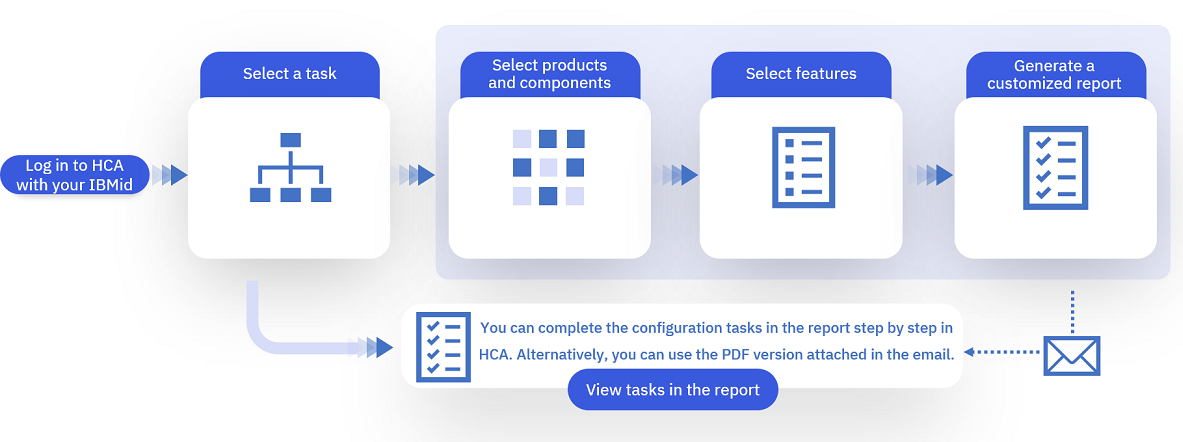
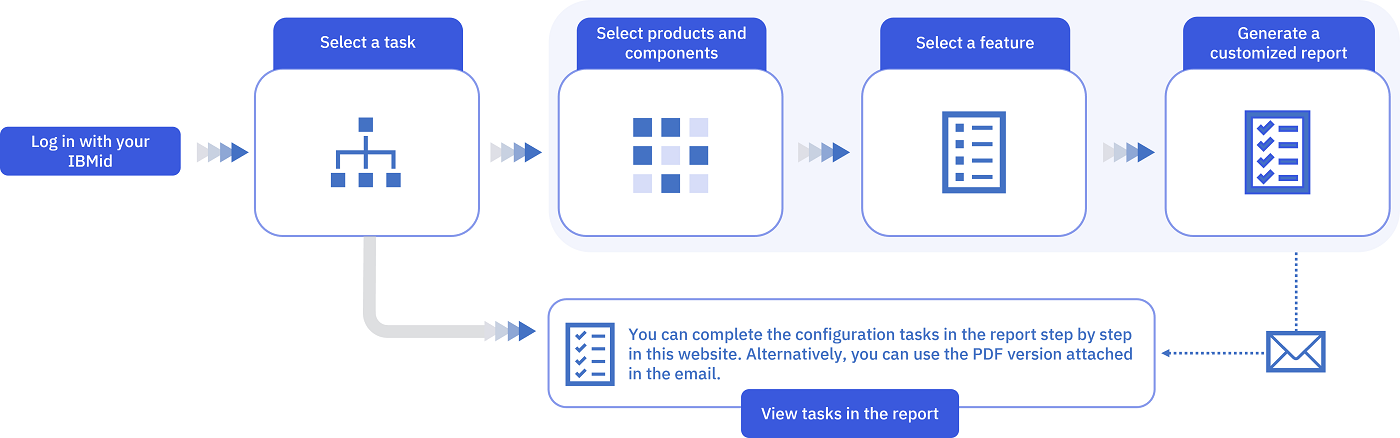
Updates for HCA

diff --git a/host-configuration-assistant.html b/host-configuration-assistant.html
@@ -83,7 +83,7 @@
     <!-- This site is optimized with the Yoast SEO plugin v9.0.2 - https://yoast.com/wordpress/plugins/seo/ -->
     <meta
       name="description"
-      content="Host Configuration Assistant for Z Development (HCA) is a web wizard that is designed to simplify planning and configuring of host components for Z Development products. Host Configuration Assistant helps you determine the host components to configure for your products and provides you with feature-based checklists to let you focus on focus."
+      content="IBM Host Configuration Assistant for Z Development is an interactive wizard that generates customized checklists to help you configure host components."
     />
     <link rel="canonical" href="host-configuration-assistant.html" />
     <meta property="og:locale" content="en_US" />
@@ -94,7 +94,7 @@
     />
     <meta
       property="og:description"
-      content="Host Configuration Assistant for Z Development (HCA) is a web wizard that is designed to simplify planning and configuring of host components for Z Development products. Host Configuration Assistant helps you determine the host components to configure for your products and provides you with feature-based checklists to let you focus on focus."
+      content="IBM Host Configuration Assistant for Z Development is an interactive wizard that generates customized checklists to help you configure host components."
     />
     <meta property="og:url" content="host-configuration-assistant.html" />
     <meta property="og:site_name" content="Mainframe DEV" />
@@ -1122,17 +1122,13 @@
                       <!--Because the_content() works only inside a WP Loop -->
                       <div class="ibm-fluid">
                         <h2>Overview</h2>
-                        <a
-                          href="https://ibm-host-configuration-assistant-for-z-development.au-syd.mybluemix.net/#/?cm_sp=dw-bluemix-_-mainframe-_-devcenter"
-                          >Host Configuration Assistant for Z Development
-                          (HCA)</a
-                        >
-                        is a web wizard that is designed to simplify planning
-                        and configuring of host components for Z Development
-                        products. Host Configuration Assistant helps you
-                        determine the host components to configure for your
-                        products and provides you with feature-based checklists
-                        to let you focus on features that matter. Host Configuration Assistant will generate a customized task list which provides the systems team a step-by-step configuration guide specific to your desired setup.
+                        <a href="https://zdev-hca.ibm.com">IBM Host Configuration Assistant for Z Development</a>
+                        is an interactive wizard that is designed to simplify planning 
+						and configuring of host components for Z Development 
+						products. Host Configuration Assistant helps you 
+						determine the host components to configure for your 
+						products and provides you with feature-based checklists 
+						to let you focus on features that matter. A customized task list is generated based on your selection and provided to the system programmer for step-by-step host configuration guidance. 
                         <p></p>
                         <div class="ibm-clear"></div>
                         <div class="ibm-clear"></div>
@@ -1150,7 +1146,7 @@
                           </li>
                           <li>
                             Helps determine required and optional components and
-                            features dynamically.
+                            features.
                           </li>
                           <li>
                             Provides feature-based checklists that are easy to
@@ -1169,7 +1165,7 @@
                         <div class="ibm-clear"></div>
                         <h2>Supported products and versions</h2>
                         <p>
-                          HCA supports the host configuration for the following
+                          <a href="https://zdev-hca.ibm.com">IBM Host Configuration Assistant for Z Development</a> supports the host configuration for the following
                           products at the latest release levels.
                         </p>
                         <p></p>
@@ -1178,7 +1174,7 @@
                             IBM Application Delivery Foundation for z/OS 3.3
                           </li>
 						  <li>
-                            IBM Z and Cloud Modernization Stack 2022.1.1 (Wazi Code 2.0)
+                            IBM Z and Cloud Modernization Stack 2022.2 (Wazi Code 2.x)
                           </li>
                           <li>
                             IBM Wazi Developer for Red Hat CodeReady Workspaces 1.4 (Wazi Code 1.x)
@@ -1251,8 +1247,8 @@
                       <ul>
                         <li>
                           <a
-                            href="https://community.ibm.com/community/user/ibmz-and-linuxone/blogs/ke-huan-yin1/2021/07/08/ibm-host-configuration-assistant-for-z-development"
-                            >IBM Host Configuration Assistant for Z Development (HCA) 3.2 released</a
+                            href="https://community.ibm.com/community/user/ibmz-and-linuxone/blogs/ke-huan-yin1/2022/03/17/ibm-hca-for-z-development-330"
+                            >IBM Host Configuration Assistant for Z Development 3.3 released</a
                           >
                         </li>
                       </ul>

diff --git a/tem.html b/tem.html
@@ -1501,10 +1501,10 @@
                 <div class="ibm-card dl-card" style="height: 343px;">
                   <div class="ibm-card__content">
                     <h3>
-                      IBM Host Configuration Assistant for Z Development (HCA) 3.2 released
+                      IBM Host Configuration Assistant for Z Development 3.3 released
                     </h3>
                     <p>
-                      Try out the wizard to simplify the planning and
+                      Try out the wizard to get customized checklists to simplify the planning and
                       configuration for IBM Z Development z/OS components!
                     </p>
                   </div>
@@ -1512,7 +1512,7 @@
                     <p class="ibm-btn-row ibm-ind-link ibm-button-link">
                       <a
                         target="_blank"
-                        href="https://community.ibm.com/community/user/ibmz-and-linuxone/blogs/ke-huan-yin1/2021/07/08/ibm-host-configuration-assistant-for-z-development"
+                        href="https://community.ibm.com/community/user/ibmz-and-linuxone/blogs/ke-huan-yin1/2022/03/17/ibm-hca-for-z-development-330"
                         class="ibm-btn-sec ibm-information-link ibm-btn-blue-50"
                         tabindex="-1"
                         >More info</a
@@ -1764,10 +1764,10 @@
                 <div class="ibm-card dl-card" style="height: 343px;">
                   <div class="ibm-card__content">
                     <h3>
-                      IBM Host Configuration Assistant for Z Development (HCA) 3.2 released
+                      IBM Host Configuration Assistant for Z Development 3.3 released
                     </h3>
                     <p>
-                      Try out the wizard to simplify the planning and
+                      Try out the wizard to get customized checklists to simplify the planning and
                       configuration for IBM Z Development z/OS components!
                     </p>
                   </div>
@@ -1775,7 +1775,7 @@
                     <p class="ibm-btn-row ibm-ind-link ibm-button-link">
                       <a
                         target="_blank"
-                        href="https://community.ibm.com/community/user/ibmz-and-linuxone/blogs/ke-huan-yin1/2021/07/08/ibm-host-configuration-assistant-for-z-development"
+                        href="https://community.ibm.com/community/user/ibmz-and-linuxone/blogs/ke-huan-yin1/2022/03/17/ibm-hca-for-z-development-330"
                         class="ibm-btn-sec ibm-information-link ibm-btn-blue-50"
                         tabindex="-1"
                         >More info</a

diff --git a/index.html b/index.html
@@ -1462,12 +1462,11 @@
                             >
                               <div class="ibm-card__content">
                                 <h3>
-                                  Host Configuration Assistant for Z Development (HCA) 3.2 released
+                                  IBM Host Configuration Assistant for Z Development 3.3 released
                                 </h3>
                                 <p>
-                                  Try out the wizard to simplify the planning
-                                  and configuration for IBM Z Development z/OS
-                                  components!
+                                  Try out the wizard to get customized checklists to simplify the planning and
+								  configuration for IBM Z Development z/OS components!
                                 </p>
                               </div>
                               <div class="ibm-card__bottom">
@@ -1476,7 +1475,7 @@
                                 >
                                   <a
                                     target="_blank"
-                                    href="https://community.ibm.com/community/user/ibmz-and-linuxone/blogs/ke-huan-yin1/2021/07/08/ibm-host-configuration-assistant-for-z-development"
+                                    href="https://community.ibm.com/community/user/ibmz-and-linuxone/blogs/ke-huan-yin1/2022/03/17/ibm-hca-for-z-development-330"
                                     class="ibm-btn-sec ibm-information-link ibm-btn-blue-50"
                                     tabindex="-1"
                                     >More info</a
